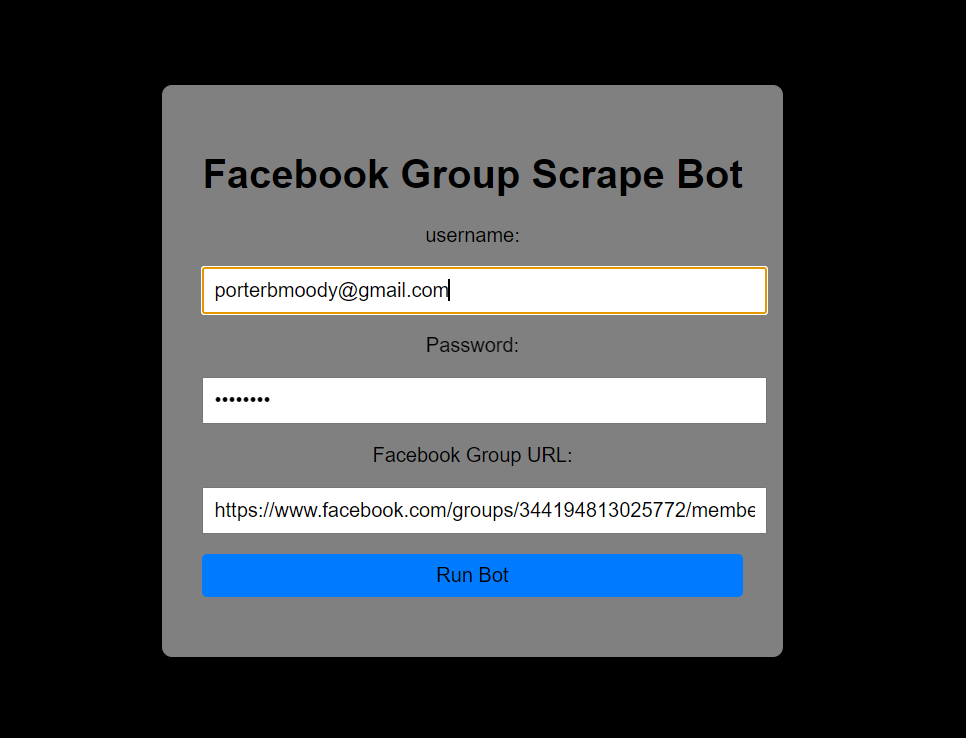
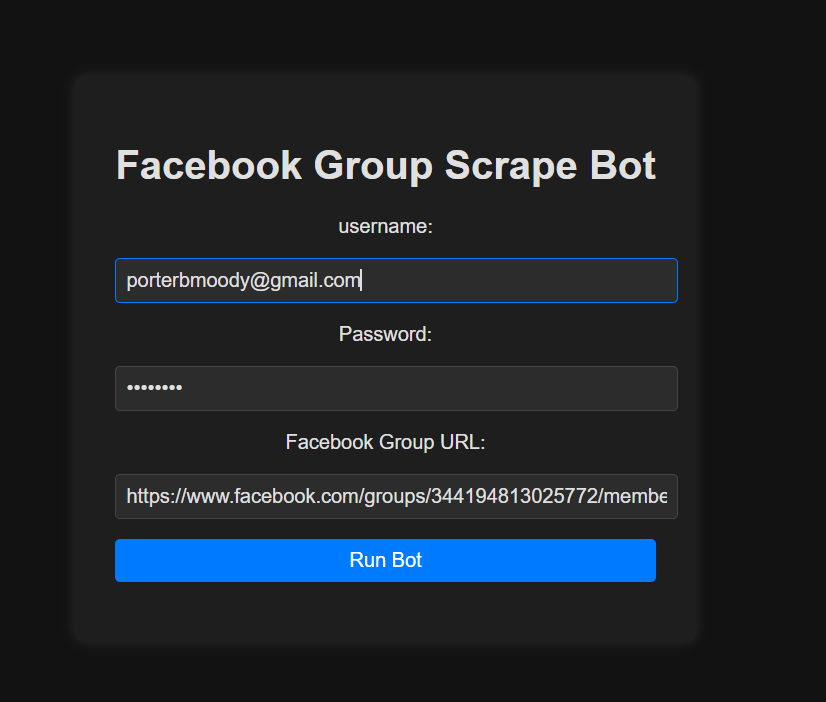
changes

diff --git a/index.html b/index.html
@@ -12,14 +12,15 @@
             align-items: center;
             height: 100vh;
             margin: 0;
-            background: black;
+            background: #121212; /* Dark background */
+            color: #e0e0e0; /* Light text color for better contrast */
         }
         .container {
             text-align: center;
-            background: grey;
+            background: #1e1e1e; /* Darker grey for container */
             padding: 2rem;
             border-radius: 8px;
-            box-shadow: 0 0 10px rgba(0, 0, 0, 0.1);
+            box-shadow: 0 0 10px rgba(255, 255, 255, 0.1); /* Lighter shadow for dark mode */
         }
         form {
             display: flex;
@@ -30,19 +31,29 @@
             padding: 0.5rem;
             font-size: 1rem;
             width: 100%;
+            background: #2c2c2c; /* Dark input background */
+            color: #e0e0e0; /* Light text color */
+            border: 1px solid #444; /* Subtle border */
+            border-radius: 4px;
+        }
+        input:focus {
+            outline: none;
+            border-color: #007bff; /* Highlight color on focus */
         }
         button {
             background: #007bff;
-            color: black;
+            color: #ffffff; /* White text for button */
             border: none;
             border-radius: 4px;
             cursor: pointer;
+            transition: background 0.3s ease;
         }
         button:hover {
             background: #0056b3;
         }
         #result {
             margin-top: 1rem;
+            color: #a0a0a0; /* Slightly muted color for results */
         }
     </style>
 </head>
